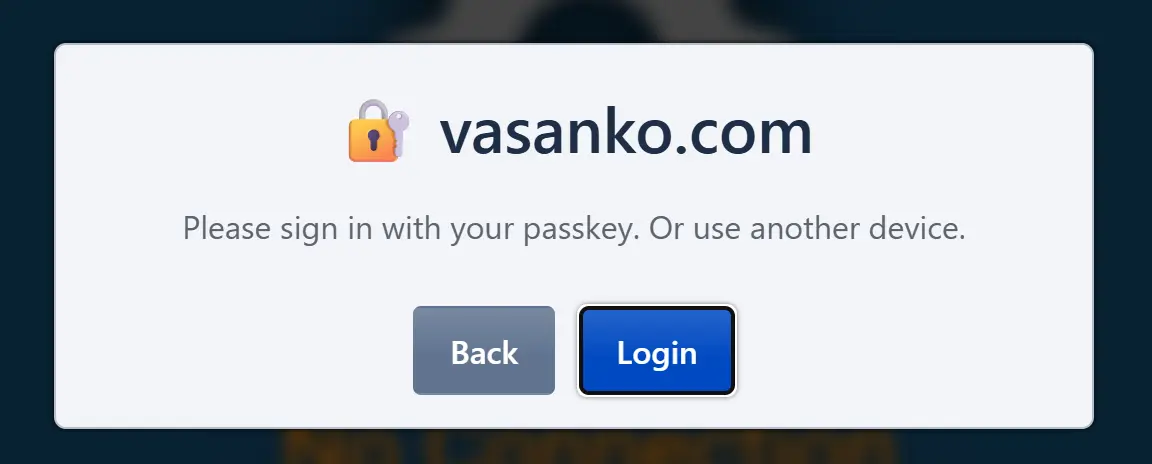
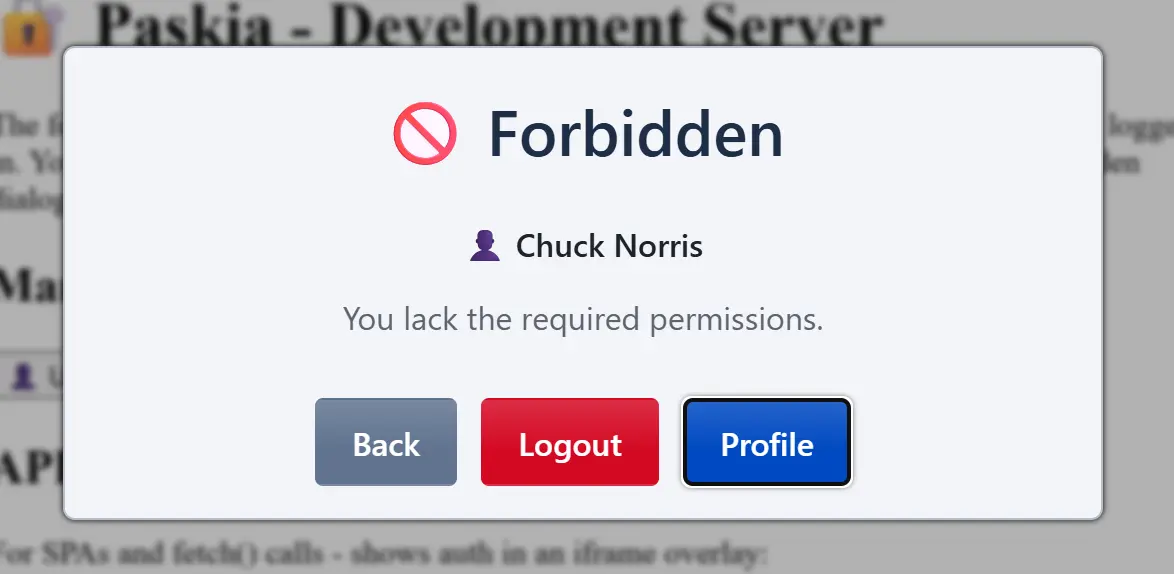
Screenshots, README.

diff --git a/README.md b/README.md
@@ -1,6 +1,6 @@
 # Paskia
 
-![Screenshot](https://git.zi.fi/leovasanko/paskia/raw/main/docs/screenshots/forbidden-light.webp)
+![Login dialog screenshot](https://git.zi.fi/leovasanko/paskia/raw/main/docs/screenshots/login-light.webp)
 
 An easy to install passkey-based authentication service that protects any web application with strong passwordless login.
 
@@ -24,6 +24,9 @@ The API mode is useful for applications that can be customized to run with Paski
 
 Single Sign-On (SSO): Users register once and authenticate across all applications under your domain name (configured rp-id).
 
+![Forbidden dialog, dark mode](https://git.zi.fi/leovasanko/paskia/raw/main/docs/screenshots/forbidden-dark.webp)
+Automatic light/dark mode switching with overrides by user profile and protected app's theme.
+
 ## Quick Start
 
 Install [UV](https://docs.astral.sh/uv/getting-started/installation/) and run:
@@ -44,7 +47,7 @@ uv tool install paskia
 
 ## Configuration
 
-There is no config file. All settings are passed as CLI options:
+All configuration is passed by CLI arguments, of which there are just a few.
 
 ```text
 paskia [options]
